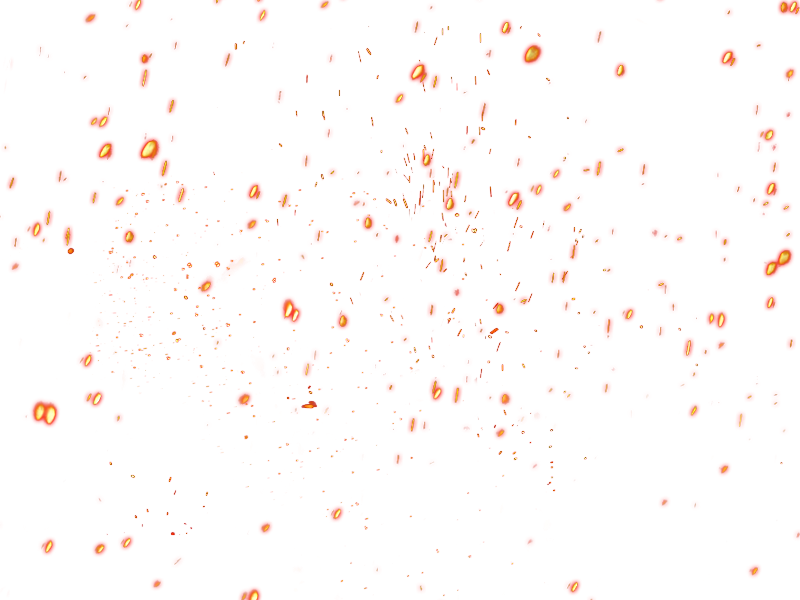
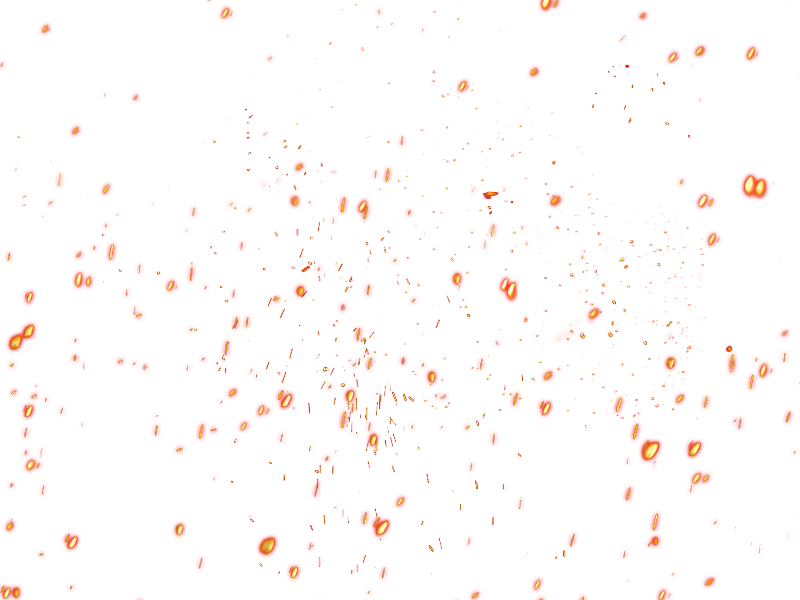
created premium and fixed fogo.png

diff --git a/style.css b/style.css
@@ -385,8 +385,9 @@ li:last-child {
 .mais-content {
   width: 100%;
   background-image: url("images/fogo.png");
+  background-position: top;
   background-color: #6a000a;
-  box-shadow: inset 0 0 0 2000px rgba(106, 0, 10, 0.4);
+  box-shadow: inset 0 0 0 2000px rgba(106, 0, 10, 0.7);
 }
 
 .mais-wrapper {
@@ -437,9 +438,10 @@ li:last-child {
 
 /* PREMIUM */
 .premium {
+  width: 100%;
   background-image: url("images/fogo.png");
   background-color: #6a000a;
-  box-shadow: inset 0 0 0 2000px rgba(106, 0, 10, 0.4);
+  box-shadow: inset 0 0 0 2000px rgba(106, 0, 10, 0.7);
 }
 
 .fita-pr1 {
@@ -447,6 +449,12 @@ li:last-child {
   width: 100%;
   height: auto;
   top: -230px;
+}
+
+.fita-pr2 {
+  position: relative;
+  width: 100%;
+  height: auto;
 }
 
 /* FOOTER */

diff --git a/index.html b/index.html
@@ -161,6 +161,9 @@
     </div>
     <div class="premium center">
       <img src="images/fita-up.png" class="fita-pr1">
+      <img src="images/coca.png" class="coca" width="100px">
+      <img src="images/premium-tex.png" class="premium-tex">
+      <img src="images/fita-down.png" class="fita-pr2">
     </div>
     <div class="footer row center">
       <div class="wrapper-foo row">
